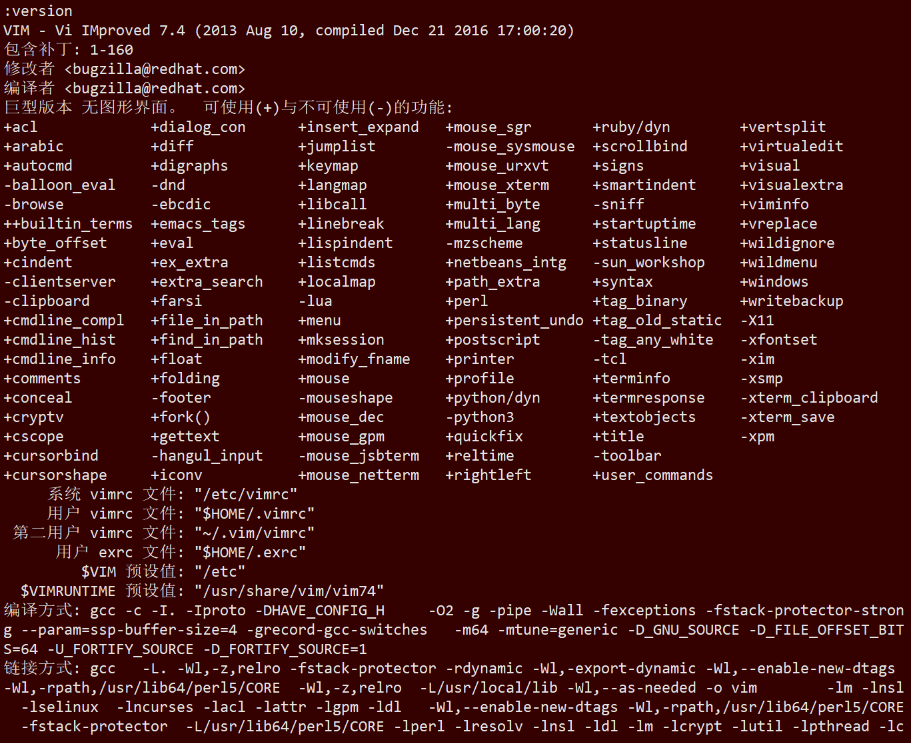
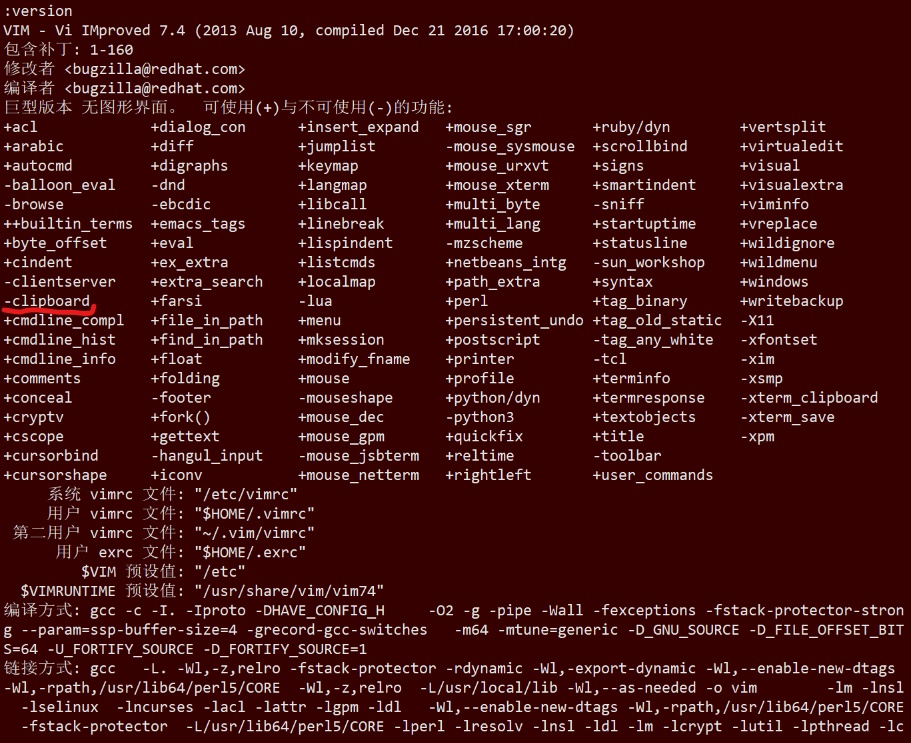
update vim on 0908

diff --git a/Skills/Vim/Vim寄存器.md b/Skills/Vim/Vim寄存器.md
@@ -1,0 +1,153 @@
+
+参考《vim实用技巧》第10章
+
+## 1. 官方帮助手册
+
+:help registers
+
+:help :registers
+
+## 2. 寄存器分类
+
+首先对vim中的寄存器来进行个大致浏览，它主要分为这么几个部分：
+
+- 1.无名（unnamed）寄存器：(")，缓存最后一次操作内容；
+
+- 2.数字（numbered）寄存器：(0 ～ 9)，缓存最近操作内容，复制与删除有别, 0寄存器缓存最近一次复制的内容，1-9缓存最近9次删除内容
+
+- 3.行内删除（small delete）寄存器：(-)，缓存行内删除内容；
+
+- 4.具名（named）寄存器：(a ～ z)，指定时可用；
+
+- 5.只读（read-only）寄存器：(:), (.), (%), (#)，分别缓存最近命令、最近插入文本、当前文件名、当前交替文件名；
+
+- 6.表达式（expression）寄存器：(=)，只读，用于执行表达式命令；
+
+- 7.选择及拖拽（selection and drop）寄存器：(\*), (+), (~)，存取GUI选择文本，可用于与外部应用交互，**使用前提为系统剪切板（clipboard）可用**；
+
+- 8.黑洞（black hole）寄存器：(_)，不缓存操作内容（干净删除）；
+
+- 9.模式寄存器（last search pattern）：(/)，缓存最近的搜索模式。
+
+**无名寄存器(")**，它用一个双引号(")来标识，这个是我们接触的最多的寄存器了，如果没有特别指定的话，复制(y)，剪切(x,s,d,c和他们的大写)，粘贴(p)命令都会将内容存放到这个寄存器里面，或是从这个寄存器里面来读取内容。
+
+**复制专用寄存器(0)**，就是使用y命令复制的内容都会存放到这个寄存器中，比如这么一段文本：
+
+```
+printf("Hello, ");
+printf("world!\n");
+```
+
+把光标停留在第一行上，按下yy命令，将第一行复制，然后再移到第二行，按下dd命令，删除第二行。此时如果我们想要粘贴第一行的内容的话，直接按p是不行的，因为此时的p将引用无名寄存器中的内容，而它的内容已经被第二行的内容给覆盖了，所以此时就轮到复制专用寄存器大显身手了，此时如果按下这个命令:
+
+```
+"0p
+```
+
+这时，将会粘贴复制专用寄存器中的内容。
+
+**系统剪贴板寄存器(+)和X11视窗系统的主剪贴板寄存器(\*)**。众所周知，任何操作系统都有一个剪贴版板，而vim就是用+寄存器来代表这个剪贴版。
+
+复制到系统剪贴板，这时打开vim想要粘贴到vim中，那么只需要这个命令就好了
+
+```
+"+p
+```
+
+这样就把系统剪贴板中的内容直接贴进vim的缓冲区了。
+
+需要声明的一点是这个剪贴板需要vim在编译的时候加上clipboard这个选项，想要查看自己的vim有没有这个选项，只要打开vim，在ex模式下输入version命令，就可以查看自己的vim支不支持这个特性了，如下图所示：
+
+![Linux :version](images/version_linux.png)
+
+还有一个主剪贴板的寄存器，这个是在Linux下的X11视窗系统中才存在的东西，这个寄存器中存放的就是上次高亮选中的内容。
+
+**黑洞寄存器(_)**。这个寄存器的功能和/dev/null设备非常地相似，就是将一切输入其中的东西都吞噬掉。平常我们经常用x命令来删除某个字符，用dd命令来删除某行，其实这些都不是删除，是剪贴，真正的删除应该是这些命令：
+
+```
+"_dd         //删除某行
+"_x          //删除光标下的字符
+```
+
+**命名寄存器(a-z)**。这个一共是a-z26个寄存器，分别用英文字母来表示。这个感觉主要需要讲的就是大写字母和小写字母的区别，当向寄存器中写入内容的时候（即复制或者剪切的时候），大写字母表示的是将当前要复制的内容追加到寄存器中，而小写字母表示的是将当前要复制的内容将寄存器中的原有内容给覆盖掉。这个可以类比于数据流重定向中的">"和">>"命令。
+
+举个例子，比如现在有个文件file2，其中的内容是这样
+
+```
+printf("Hello, ");
+printf("World!\n");
+```
+
+而a寄存器中的内容刚开始是这样：
+
+![Linux :version](images/a_register.png)
+
+在第一行上执行了 "Ayy命令之后，a寄存器中的内容就变成了这样，第一行的内容被追加到了寄存器中：
+
+![Linux :version](images/a_append_register.png)
+
+接着我再在第二行上执行 "ayy命令之后，a寄存器中的内容就变成了这样，寄存器中原来的内容都被覆盖掉了：
+
+![Linux :version](images/a_cover_register.png)
+
+**表达式寄存器(=)**。normal模式下按"=或者插入模式下按<C-r>,=来进入编辑vim表达式的模式，表达式运行的结果将被插入到vim的缓冲区中。
+
+**特定信息的寄存器**，主要是下面这几个：
+
+- 当前文件名寄存器 （%）
+
+- 轮换文件名寄存器 （#）
+
+- 上次执行的ex命令 （:）
+
+- 上次查找的关键字 （/）
+
+打开了两个文件file1和file2,然后切换到了file2,并进行了一次查找，查找了hello关键字，执行了两次reg命令，第二次reg命令执行结果如下图：
+
+![specific_register](images/specific_register.png)
+
+最后四行分别就是对应我们上面讲的那四个寄存器，这里需要注意的的是关键字寄存器（/）比较特殊，它是可以通过let命令来更改的，具体的执行命令如下：
+
+```
+let @/="the"
+```
+
+## 3. 各种复制粘贴命令说明
+
+在详细了解这些寄存器之前，我们还得了解几个和寄存器有关的命令：
+
+```
+yy      //复制当前行
+yw      //当前光标下面的这个单词
+yit     //复制一个html标签中的内容
+yft     //复制当前行上光标到第一个t之间的所有内容
+```
+
+## 4. 在普通模式中使用寄存器
+
+在执行粘贴（p）命令，或者复制（y）和剪切（x,s,d,c和他们的大写）命令时，可以在前面加上 "{register}（其中那个{register}代表的是寄存器的名字），这样我们就可以使用相应的寄存器了，如果不加的话，默认使用的是无名寄存器。
+
+比如，%代表的是文件名寄存器，存放的是当前正在编辑的文件名，我现在打开了一个文件file2，并且正处于普通模式，此时如果我输入以下内容：
+
+```
+"%p  //表示将文件名寄存器的内容粘贴到当前行
+```
+
+## 5. 在插入模式中使用寄存器
+
+在插入模式，当我们按下<CTRL> + r键，再加上相应的寄存器的名字，就可以插入寄存器中的内容了。
+
+比如=代表的是表达式寄存器，比如我在vim中输入如下命令：
+
+```
+i           #进入插入模式
+<C-r>=      #按下<Ctrl>+r键，再按等号键，此时就可以输入表达式了 
+```
+
+## 6. 查看当前寄存器的内容
+
+在ex模式下输入:reg或者:dis命令，就可以查看当前所有寄存器的内容了。
+
+```
+:reg 寄存器名  //查看单个寄存器内容
+```

diff --git a/Linux/ULK/3进程/2. 进程描述符.md b/Linux/ULK/3进程/2. 进程描述符.md
@@ -1,0 +1,43 @@
+## 1. 进程描述符
+
+进程描述符都是task_struct类型结构，包含了与一个进程相关的所有信息。
+
+![进程描述符](images/1.png)
+
+图中的六个数据结构涉及进程所拥有的特殊资源，后续讲到，本章集中讨论两种字段：进程的状态和进程的父/子间关系。
+
+### 1.1 进程状态
+
+state字段（volatile long类型）描述了进程当前所处的状态。它由一组标志组成，其中每个标志描述一种可能的状态。如下：
+
+- 可运行状态（TASK_RUNNING）
+
+    正在CPU上运行或准备执行
+
+- 可中断的等待状态（TASK_INTERRUPTIBLE）
+
+    进程被挂起（睡眠），产生硬件中断、收到信号等被唤醒进入TASK_RUNNING状态
+
+- 不可中断的等待状态（TASK_UNINTERRUPTIBLE）
+
+    特定情况（必须等待，直到一个不能被中断的事件发生）。比如进程在打开一个设备，相应的设备驱动开始探测相应的硬件设备时候
+
+- 暂停状态（TASK_STOPPED）
+
+    执行被暂停。进程收到SIGSTOP, SIGTSTP, SIGTTIN或SIGTTOUT信号后
+
+- 跟踪状态（TASK_TRACED）
+
+    执行由debugger程序暂停。当一个进程被另一个进程监控时（例如debugger执行ptrace()系统调用），任何信号可以将这个进程置于跟踪态
+
+两个状态可以在进程描述符的state字段中，也可以存放在exit_state字段中。只有当进程的执行被终止，进程状态才会变成这两种状态中的一种。
+
+- 僵死状态（EXIT_ZOMBIE）
+
+    进程的执行被终止，但父进程还没发wait4()或waitpid()系统调用返回有关死亡进程的信息。发布wait()前，内核不能丢弃包含在死进程描述符中的数据，因为父进程可能还需要（参照本章“进程删除”）
+
+- 僵死撤销状态（EXIT_DEAD）
+ 
+    最终态：父进程发出wait()或waitpid()系统调用后被系统删除。为防止其他执行线程在同一进程上执行wait()类系统调用（这是一种竞争条件）（参见第五章）。
+
+注：还有其他wait()类的库函数，但Linux依靠wait4()和waitpid()系统调用实现。

diff --git a/Skills/Vim/Vim的复制粘贴.md b/Skills/Vim/Vim的复制粘贴.md
@@ -1,0 +1,47 @@
+
+Vim 中的复制、删除的内容都会被存放到默认（未命名）寄存器中，之后可以通过粘贴操作读取默认寄存器中的内容。
+
+寄存器是完成这一过程的中转站，Vim 支持的寄存器非常多，其中常用的有 a-zA-Z0-9+“。
+
+其中：
+
+- 0-9：表示数字寄存器，是 Vim 用来保存最近复制、删除等操作的内容，其中 0 号寄存器保存的是最近一次的操作内容。
+
+- a-zA-Z：表示用户寄存器，Vim 不会读写这部分寄存器
+
+- "（单个双引号）：未命名的寄存器，是 Vim 的默认寄存器，例如删除、复制等操作的内容都会被保存到这里。
+
+- +：剪切板寄存器，关联系统剪切板，保存在这个寄存器中的内容可以被系统其他程序访问，也可以通过这个寄存器访问其他程序保存到剪切板中的内容。
+
+如果想了解更多寄存器内容，可参http://vimdoc.sourceforge.net/htmldoc/change.html#registers
+
+通过下面命令可以查看所有寄存器中的内容，也可以只查看指定寄存器的内容（将寄存器名称作为参数）:
+
+```
+reg [register_name] 
+```
+
+有了上面的基础知识后，要实现"**将 Vim 剪贴板里面的东西粘贴到 Vim 之外的地方？**"就很明了。
+
+只需要将内容复制到剪切板寄存器(+)中即可，其他程序便可以访问到了。
+
+"+yy  // 复制当前行到剪切板
+"+p   // 将剪切板内容粘贴到光标后面
+"ayy  // 复制当前行到寄存器 a
+"ap   // 将寄存器 a 中的内容粘贴到光标后面
+
+Vim 有12个粘贴板依次编号为：0、1、2、...、9、a、"、+。
+
+其中 + 号为系统粘贴板，” 为临时粘贴板。
+
+系统剪切板中的内容可在其他程序中使用。上面的复制指令都可以配合剪切板进行操作。
+
+- "nyw 复制当前单词到 n 号剪切板（双引号开始） 
+
+- "np 粘贴 n 号剪切板内容到当前位置后 
+
+- "+Y 复制当前行到系统剪切板
+
+- "+ny 复制当前行加下面 n 行到系统剪切板
+
+- "+p 粘贴系统剪切板内容到当前位置后

diff --git a/Skills/Vim/vim使用入门之vimrc路径.md b/Skills/Vim/vim使用入门之vimrc路径.md
@@ -27,3 +27,10 @@ Windows下面输入“:version”查看结果
 在windows版本的vim安装时，缺省会安装一个$VIM/\_vimrc的，你可以直接修改这个\_vimrc，加入你自己的配置(使用:e $VIM/\_vimrc可以打开此文件。或者，你也可以在windows中增加一个名为HOME的环境变量(控制面板->系统–>高级–>环境变量)，然后把你的vimrc放在HOME环境变量所指定的目录中。从上面:version命令的输出看到，$HOME/\_vimrc如果存在，就会执行这个文件中的配置，而跳过$VIM/\_vimrc。
 
 如果使用”vim -u filename“命令来启动vim，则会用你指定的filename作为vim的配置文件(在调试你的vimrc时有用)；如果用”vim -u NORC“命令启动vim，则不读取任何vimrc文件：当你怀疑你的vimrc配置有问题时，可以用这种方式跳过vimrc的执行。
+
+通过命令
+
+```
+:echo $MYVIMRC
+```
+查看当前vim配置文件路径

diff --git a/Linux/ULK/3进程/README.md b/Linux/ULK/3进程/README.md
@@ -1,0 +1,25 @@
+第三章 进程
+
+- 进程、轻量级进程和线程
+
+- 进程描述符
+
+- 进程切换
+
+- 创建进程
+
+- 撤销进程
+
+通常将进程定义为程序执行的一个实例。
+
+在Linux源码中，常把进程称为任务（task）或线程（thread）。
+
+这章，我们将
+
+- 首先讨论进程的静态特性，
+
+- 然后描述内核如何进程进程切换
+
+- 最后研究如何创建和撤销进程。
+ 
+- 还将讲述Linux对多线程应用程序的支持，它依赖所谓的轻量级进程（light weight process，LWP）

diff --git a/Skills/Vim/VIM使用进阶/2. 使用会话和viminfo.md b/Skills/Vim/VIM使用进阶/2. 使用会话和viminfo.md
@@ -59,8 +59,13 @@
 
 退出vim后，在命令行下执行gvim &，再次进入vim，这时看到的是一个空白窗口。然后执行下面的命令：
 
+```
 :source ~/src/vim70/src/vim70.vim  '载入会话文件
 :rviminfo vim70.viminfo            '读入viminfo文件
+```
+
+也可以在启动时候vim -S XX
+
 太棒了，又恢复到昨天退出时的状态了！继续工作~~~~
 
 不过，每次都要手工修改‘sessionoptions’或‘viminfo’吗？多麻烦啊……别着急，现在是时候介绍vimrc了，请移步下一章: vimrc初步。

diff --git a/Skills/Vim/VIM使用进阶/3. vimrc初步.md b/Skills/Vim/VIM使用进阶/3. vimrc初步.md
@@ -48,6 +48,14 @@ cp /usr/share/vim/vim70/vimrc_example.vim ~/.vimrc
 
 在今后使用vim的日子里，你会频繁的更改你的vimrc。所以我们需要设置一些快捷方式，使我们能快速的访问vimrc。
 
+通过命令
+
+```
+:echo $MYVIMRC
+```
+
+查看当前vim配置文件路径
+
 把下面这段内容拷贝到你的vimrc中：
 
 ```

diff --git a/Linux/ULK/3进程/1. 进程、轻量级进程和线程.md b/Linux/ULK/3进程/1. 进程、轻量级进程和线程.md
@@ -1,0 +1,6 @@
+## 1. 进程、轻量级进程和线程
+
+进程是程序执行时的一个实例，可以看作充分描述程序已经执行到何种程度的数据结构的汇集。
+
+从内核观点看，进程的目的就是担当分配系统资源（CPU时间、内存等）的实体。
+

diff --git a/Skills/Vim/Vim使用系统剪切板.md b/Skills/Vim/Vim使用系统剪切板.md
@@ -1,0 +1,13 @@
+## windows:
+
+配置文件中添加 
+
+```
+set clipboard=unnamed
+```
+
+添加到~/.vimrc, 注意只在gvim有效, 因为gvim有一个+寄存器, 可以与外部程序共享.
+
+## Linux
+
+可以下载源码重新编译，在configure的时候增加 --with-features=huge。
